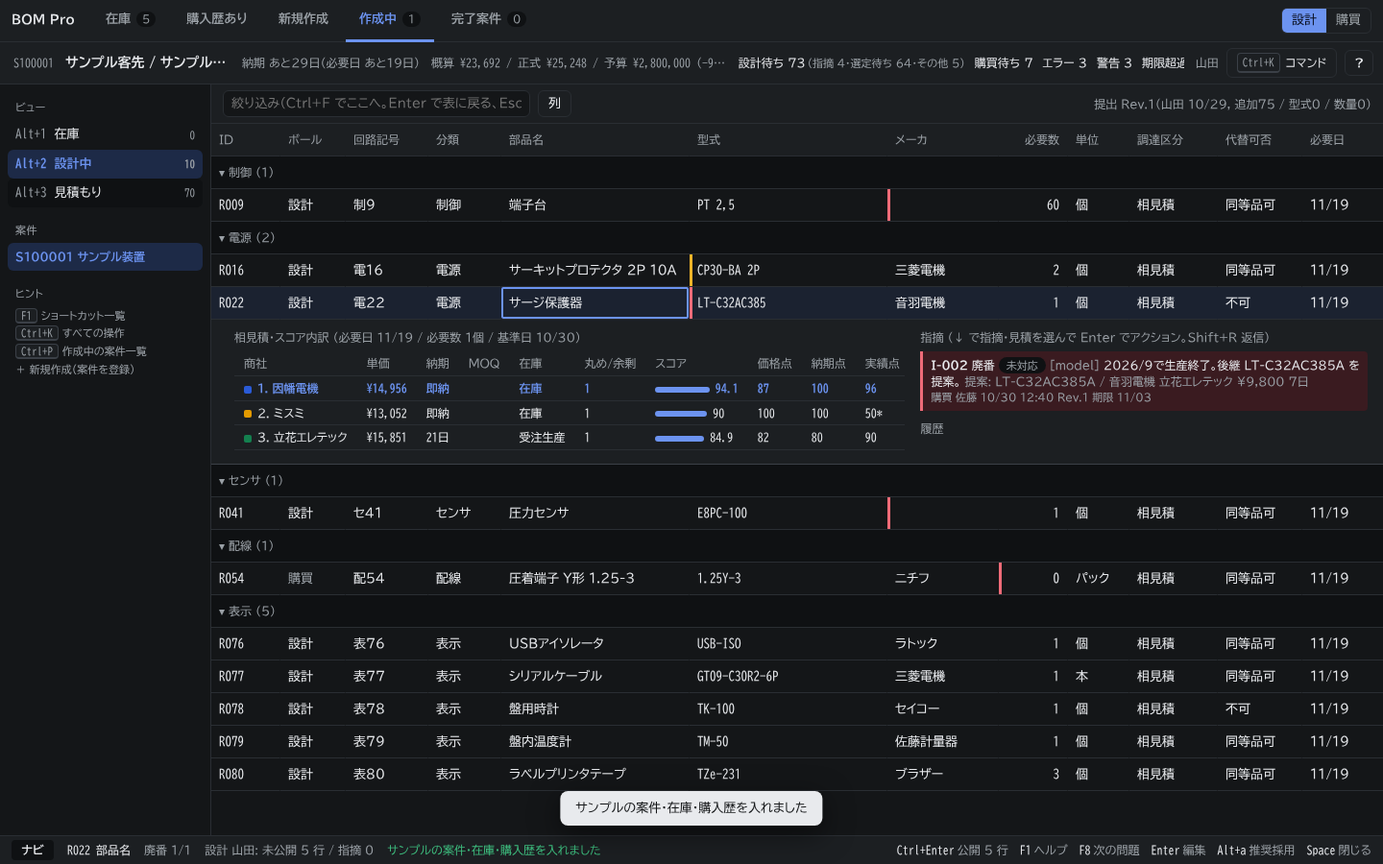
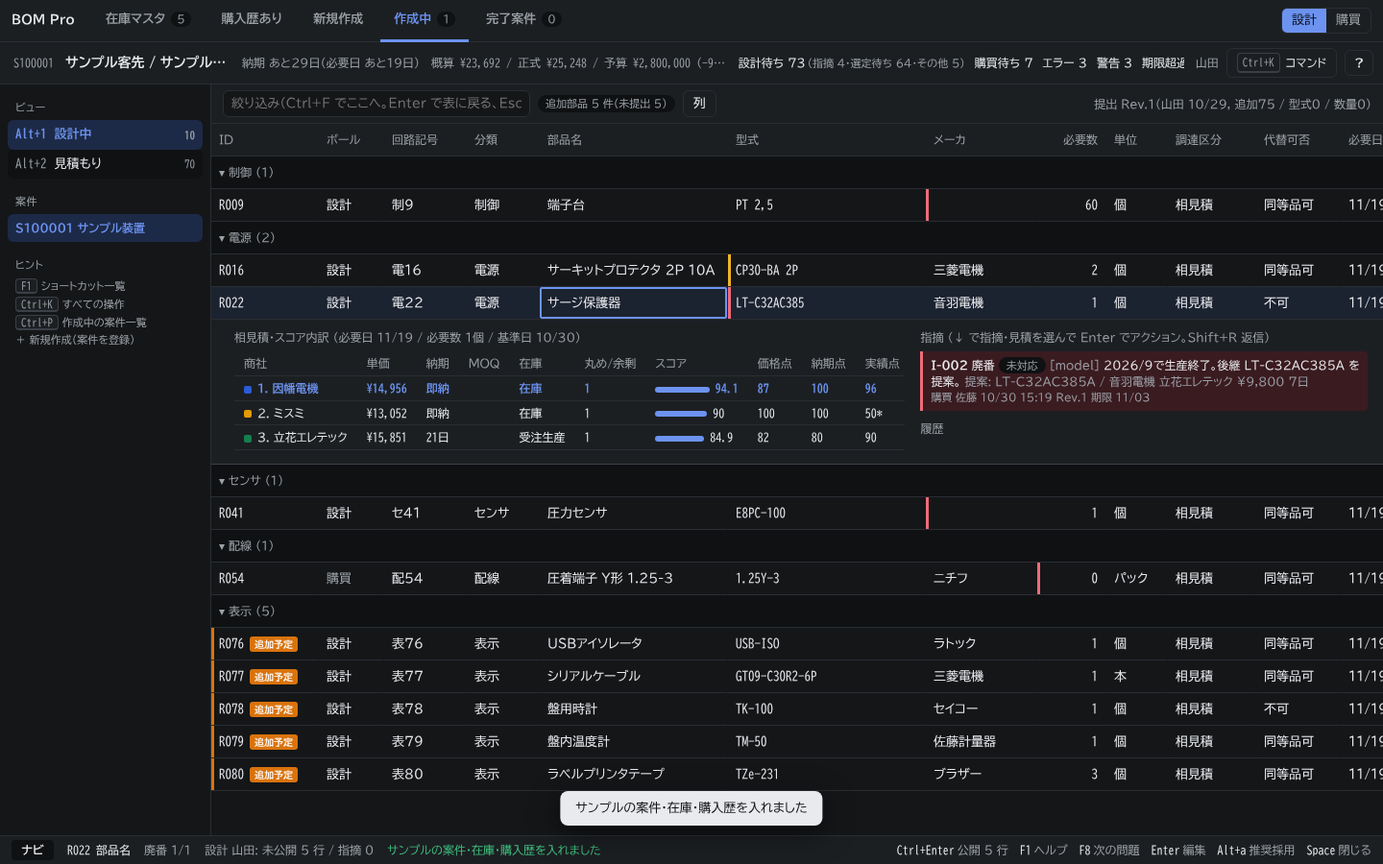
上のタブを在庫マスタに、在庫ビューを削除（ビューは設計中・見積もりの 2 つ）、見積もり・発注後の追加部品に札・色・件数を出す
Claude-Session: https://claude.ai/code/session_01VLU869jRMj6qD9nzBFt6MK

diff --git a/src/commands/registry.ts b/src/commands/registry.ts
@@ -25,7 +25,7 @@ const set = (p: Partial<State>) => useStore.setState(p)
 const toast = (t: string, k: 'ok' | 'err' | 'info' = 'ok') => st().toastMsg(t, k)
 export const vm = () => buildViewModel(st())
 
-export const ROLE_DEFAULT_VIEW: Record<Role, ViewId> = { design: 2, purchasing: 3 }
+export const ROLE_DEFAULT_VIEW: Record<Role, ViewId> = { design: 1, purchasing: 2 }
 
 /** 選択中の行（いま表示されている行だけ。絞り込みで隠れた行は対象にしない） */
 function cursorRow(): Row | undefined {
@@ -193,11 +193,11 @@ export function setView(v: ViewId) {
   // 編集中にビューを切り替えたら、先に今のセルへ確定する（別の行に書き込まない）
   if (!commitEdit('stay')) return
   set({ view: v, detailIndex: 0, revView: null })
-  // 3 見積もりは相見積先の列で入れる。相見積先が無ければ理由を知らせる
-  if (v === 3 && !st().project().supplierIds.length) toast('相見積先がまだありません（案件設定 Ctrl+K →「案件設定」→ 相見積先、または概算見積の依頼で商社を選ぶ）', 'info')
+  // 2 見積もりは相見積先の列で入れる。相見積先が無ければ理由を知らせる
+  if (v === 2 && !st().project().supplierIds.length) toast('相見積先がまだありません（案件設定 Ctrl+K →「案件設定」→ 相見積先、または概算見積の依頼で商社を選ぶ）', 'info')
   if (!vm().rows.some((r) => r.id === st().cursorRow)) set({ cursorRow: null })
   ensureCursor()
-  // 書けない列にいるなら、このビューで自分が書ける最初の列へ（購買が 3 見積もりを開くと単価）。ID・状態の列にいるときはそのまま
+  // 書けない列にいるなら、このビューで自分が書ける最初の列へ（購買が 2 見積もりを開くと単価）。ID・状態の列にいるときはそのまま
   const c = st().cursorCol
   if (c !== 'id' && c !== 'status' && rows.canEdit(c)) {
     // 単価を先に。無ければ書ける最初の列
@@ -341,9 +341,9 @@ export function commitEdit(dir: 'down' | 'up' | 'right' | 'left' | 'stay' = 'dow
     if (!tabAnchor || tabAnchor.row !== r.id) tabAnchor = { row: r.id, col: s.cursorCol }
     moveCol(dir === 'right' ? 1 : -1)
   } else tabAnchor = null
-  // 3 見積もり: 単価 → Tab → 納期 … と数字を続けて打てるよう、次の数値セルの入力を始める
+  // 2 見積もり: 単価 → Tab → 納期 … と数字を続けて打てるよう、次の数値セルの入力を始める
   const n = st()
-  if (dir !== 'stay' && n.view === 3 && colDef(n.cursorCol)?.numeric && !rows.canEdit(n.cursorCol) && cursorRow() && (n.cursorRow !== r.id || n.cursorCol !== s.cursorCol)) {
+  if (dir !== 'stay' && n.view === 2 && colDef(n.cursorCol)?.numeric && !rows.canEdit(n.cursorCol) && cursorRow() && (n.cursorRow !== r.id || n.cursorCol !== s.cursorCol)) {
     startEdit('')
     set({ editAuto: true })
   }
@@ -372,7 +372,7 @@ export function nextAckTarget(p: Project, row: Row, role: Role): string | null {
     const pr = prs.find((x) => x.severity === 'warn' && x.field === st().cursorCol) ?? prs.find((x) => x.severity === 'warn')
     if (pr) return row.ackRules.includes(pr.ruleId) ? '警告の確認済みを外す' : '警告を確認済み'
   }
-  if (st().view === 3 && role === 'purchasing' && p.submissions.some((sb) => sb.rowIds.includes(row.id) && !isAcked(sb, row.id, role))) return '差分を確認済'
+  if (st().view === 2 && role === 'purchasing' && p.submissions.some((sb) => sb.rowIds.includes(row.id) && !isAcked(sb, row.id, role))) return '差分を確認済'
   return null
 }
 function ackCurrent() {
@@ -746,9 +746,9 @@ function quoteActionPanel(r: Row, supplierId: string) {
   if (s.user().role === 'purchasing')
     options.push({
       key: 'i',
-      label: `3 見積もりビューで ${sup?.name} の見積を入力`,
+      label: `2 見積もりビューで ${sup?.name} の見積を入力`,
       run: () => {
-        setView(3)
+        setView(2)
         jumpToRow(r.id, `q.unitPrice@${supplierId}`)
       },
     })
@@ -1203,7 +1203,7 @@ export function runCommand(id: string, e?: KeyboardEvent): void {
       // 行を選んでいないときは足す位置が分からないので足さない（表の最後に足すなら Ctrl+↓ で最後の行へ）
       if (!r && s.project().rows.length) return toast('行を選んでから Shift+Enter（その下に足します。最後に足すときは Ctrl+↓ で最後の行へ）', 'info')
       if (s.filter || s.cellFilter) set({ filter: '', cellFilter: null })
-      if (s.view !== 2) setView(2)
+      if (s.view !== 1) setView(1)
       const nid = rows.insertBelow(r?.id ?? null)
       if (nid) {
         jumpToRow(nid, 'name')
@@ -1677,7 +1677,7 @@ export const STATIC: Array<{ id: string; label: string; section: string; desc?: 
   { id: 'filter.focus', label: '絞り込み検索', section: '表示', desc: 'Ctrl+F で入力欄へ', keywords: 'フィルタ filter 検索 探す さがす' },
   { id: 'columns.panel', label: '列の表示・非表示', section: '表示', keywords: '列 カラム 隠す 見えない' },
   { id: 'goto', label: '行へジャンプ（ID・回路記号・型式）', section: '表示', keywords: '移動 ジャンプ 探す 行へ' },
-  { id: 'row.toggleHidden', label: '行を隠す / 隠した行を戻す', section: '編集', desc: '隠した行は 2 設計中に薄く出ます', keywords: '非表示 隠した 隠す 戻す 表示' },
+  { id: 'row.toggleHidden', label: '行を隠す / 隠した行を戻す', section: '編集', desc: '隠した行は 1 設計中に薄く出ます', keywords: '非表示 隠した 隠す 戻す 表示' },
   { id: 'help', label: 'ショートカット一覧（ヘルプ）', section: '表示', keywords: 'ヘルプ help 使い方 キー 操作 わからない ? alt f8 英字 ショートカット' },
 ]
 

diff --git a/src/model/selectors.ts b/src/model/selectors.ts
@@ -4,7 +4,7 @@ import { COLUMNS, DEFAULT_HIDDEN_COLS, colDef, supplierOfCol } from './columns'
 import { VIEWS, buildProblems, causeOf, type ViewCtx } from './views'
 import type { Problem } from './rules'
 import type { State, ViewId } from './store'
-import { adoptedQuote, ball, effective, isActive, isOverdue, lineAmount, noUsableQuote, openIssues, orderQty, quoteResponses, rowDue, rowNeedDate, waitingDays, fmtYen } from './derive'
+import { addedLater, adoptedQuote, ball, effective, isActive, isOverdue, lineAmount, noUsableQuote, openIssues, orderQty, quoteResponses, rowDue, rowNeedDate, waitingDays, fmtYen } from './derive'
 import { fmtDate } from './dates'
 import { toHalf } from './parse'
 
@@ -49,7 +49,7 @@ export function viewColumns(st: State, p: Project): string[] {
   let cols: string[] = viewBaseColumns(st)
   // 相見積先に加えて、見積を頼んだ商社（指定系の行の指定先で、相見積先に無い商社）の列も出す
   const quoted = [...p.supplierIds, ...new Set(p.quotes.filter((q) => !q.stale && !p.supplierIds.includes(q.supplierId)).map((q) => q.supplierId))]
-  if (st.view === 3) {
+  if (st.view === 2) {
     for (const sid of quoted) cols.push(`q.unitPrice@${sid}`, `q.leadDays@${sid}`, `q.moq@${sid}`, `q.stock@${sid}`, `q.formalPrice@${sid}`)
     cols.push('extraCost', 'extraCostKind')
   }
@@ -60,7 +60,7 @@ function matchText(row: Row, p: Project, q: string, role: Role): boolean {
   if (!q) return true
   q = toHalf(q)
   const e = role === 'design' ? effective(row) : row
-  const hay = toHalf([row.id, e.ref, e.name, e.model, e.maker, e.category, e.note, STATUS_LABEL[row.status], ...openIssues(p, row.id).map((i) => i.kind + i.text)].join(' ')).toLowerCase()
+  const hay = toHalf([row.id, e.ref, e.name, e.model, e.maker, e.category, e.note, STATUS_LABEL[row.status], addedLater(p, row) ? '追加 追加部品' : '', ...openIssues(p, row.id).map((i) => i.kind + i.text)].join(' ')).toLowerCase()
   return q.toLowerCase().split(/\s+/).every((t) => hay.includes(t))
 }
 
@@ -83,7 +83,7 @@ function buildViewModelUncached(st: State): ViewModel {
   const columns = viewColumns(st, p)
   const counts = {} as Record<ViewId, number>
   // 隠した行は 設計中 にだけ出す
-  const showHidden = (id: number) => id === 2
+  const showHidden = (id: number) => id === 1
   for (const v of VIEWS) counts[v.id] = p.rows.filter((r) => v.filter(r, ctx) && (showHidden(v.id) || !r.hidden)).length
   const v = VIEWS.find((x) => x.id === st.view)!
   let rows = p.rows.filter((r) => v.filter(r, ctx) && (showHidden(st.view) || !r.hidden) && matchText(r, p, st.filter, ws.user.role))
@@ -132,6 +132,8 @@ export interface CellText {
   cls?: string
   sev?: 'err' | 'warn'
   title?: string
+  /** セルの横に付ける札（追加部品など） */
+  tag?: string
 }
 
 export function cellText(row: Row, col: string, ctx: ViewCtx): CellText {
@@ -154,8 +156,10 @@ export function cellText(row: Row, col: string, ctx: ViewCtx): CellText {
     return { text: v == null ? '' : String(v), raw: v ?? '', cls: d.numeric ? 'num' : '' }
   }
   switch (col) {
-    case 'id':
-      return { text: row.id, raw: row.id, cls: 'id' }
+    case 'id': {
+      const add = addedLater(p, row)
+      return { text: row.id, raw: row.id, cls: 'id', tag: add ? (add.state === 'draft' ? '追加予定' : '追加') : undefined, title: add ? (add.state === 'draft' ? '見積もり・発注のあとに足した部品（まだ提出していません。設計が公開すると購買に渡ります）' : `見積もり・発注のあとに足した部品（Rev.${add.rev} で追加）`) : undefined }
+    }
     case 'ball': {
       const b = ball(p, row)
       return { text: b ? ROLE_LABEL[b] : '—', raw: b ?? '', cls: b === ctx.role ? 'mine' : 'muted' }
@@ -208,6 +212,8 @@ export function cellText(row: Row, col: string, ctx: ViewCtx): CellText {
     case 'status': {
       const flags: string[] = []
       const f = row.flags
+      const add = addedLater(p, row)
+      if (add) flags.push(add.state === 'draft' ? '追加予定' : `追加 Rev.${add.rev}`)
       if (openIssues(p, row.id).length) flags.push('指摘')
       if (f.requote) flags.push('再見積要')
       if (f.reconfirm) flags.push('要再確認')

diff --git a/src/ui/Home.tsx b/src/ui/Home.tsx
@@ -18,8 +18,8 @@ export function goScreen(screen: Screen) {
 }
 
 /** 案件を開いて部品表の画面へ */
-/** 案件を開く。view は 1 在庫 / 2 設計中 / 3 見積もり（既定は設計中） */
-export function openProject(id: string, view: 1 | 2 | 3 = 2) {
+/** 案件を開く。view は 1 設計中 / 2 見積もり（既定は設計中） */
+export function openProject(id: string, view: 1 | 2 = 1) {
   st().commitWs('', (ws) => {
     ws.currentProjectId = id
   })
@@ -27,7 +27,7 @@ export function openProject(id: string, view: 1 | 2 | 3 = 2) {
 }
 
 const TABS: Array<{ id: Screen; label: string }> = [
-  { id: 'stock', label: '在庫' },
+  { id: 'stock', label: '在庫マスタ' },
   { id: 'history', label: '購入歴あり' },
   { id: 'new', label: '新規作成' },
   { id: 'active', label: '作成中' },
@@ -268,7 +268,7 @@ function StockScreen() {
   return (
     <section className="home-sec">
       <div className="home-head">
-        <h2>在庫</h2>
+        <h2>在庫マスタ</h2>
         <input className="home-search" placeholder="部品名・型式・メーカー・置き場所で絞り込み" value={q} onChange={(e) => setQ(e.target.value)} data-testid="stock-search" />
         <button className="btn primary" onClick={() => { setForm({ id: null, v: EMPTY_STOCK }); setErr(''); setImporting(false) }} data-testid="stock-add">
           ＋ 在庫を追加
@@ -504,7 +504,7 @@ function AddDialog({ target, onClose }: { target: PickTarget; onClose: () => voi
   const [qty, setQty] = useState('1')
   const [pid, setPid] = useState(active.some((p) => p.id === lastProject) ? lastProject : active.length === 1 ? active[0].id : '')
   const [err, setErr] = useState('')
-  const [added, setAdded] = useState<{ projectId: string; text: string; kind: 'stock' | 'history' } | null>(null)
+  const [added, setAdded] = useState<{ projectId: string; text: string } | null>(null)
   const title = target.kind === 'stock' ? [target.item.name, target.item.model].filter(Boolean).join('　') : [target.entry.name, target.entry.model].filter(Boolean).join('　')
   const maker = target.kind === 'stock' ? target.item.maker : target.entry.maker
   const unit = target.kind === 'stock' ? target.item.unit : target.entry.unit
@@ -517,7 +517,7 @@ function AddDialog({ target, onClose }: { target: PickTarget; onClose: () => voi
     if ('error' in r) return setErr(r.error)
     lastProject = pid
     setErr('')
-    setAdded({ projectId: pid, kind: target.kind, text: `${pid} に ${title} × ${qty}${unit} を追加しました` })
+    setAdded({ projectId: pid, text: `${pid} に ${title} × ${qty}${unit} を追加しました` })
   }
   return (
     <div className="overlay" onClick={onClose} data-testid="add-dialog">
@@ -529,7 +529,7 @@ function AddDialog({ target, onClose }: { target: PickTarget; onClose: () => voi
           <>
             <div className="ok-box" data-testid="add-done">{added.text}</div>
             <div className="row-actions">
-              <button className="btn primary" onClick={() => { onClose(); openProject(added.projectId, added.kind === 'stock' ? 1 : 2) }} data-testid="add-open-project">案件を開く</button>
+              <button className="btn primary" onClick={() => { onClose(); openProject(added.projectId) }} data-testid="add-open-project">案件を開く</button>
               <button className="btn" onClick={() => { setAdded(null); setQty('1') }} data-testid="add-more">続けて追加</button>
               <button className="btn" onClick={onClose} data-testid="add-close">閉じる</button>
             </div>

diff --git a/src/App.tsx b/src/App.tsx
@@ -7,6 +7,7 @@ import { Grid } from '@/ui/Grid'
 import { StatusBar } from '@/ui/StatusBar'
 import { Panels } from '@/ui/Panels'
 import { Home, TopNav } from '@/ui/Home'
+import { addedLater } from '@/model/derive'
 import { commitEdit, handleKeyDown, keepCursorVisible, runCommand } from '@/commands/registry'
 import { STORAGE_KEY, loadBackups, loadProblem, loadUser, parseWorkspace, resetWorkspace, saveBackup, startSync } from '@/io/persist'
 import { colDef } from '@/model/columns'
@@ -162,6 +163,16 @@ function Main() {
         <div className="toolbar">
           <input className="filter" placeholder="絞り込み（Ctrl+F でここへ。Enter で表に戻る、Esc で解除）" value={st.filter} onChange={(e) => st.set({ filter: e.target.value })} data-testid="filter" />
           {st.filter && <span className="muted" style={{ fontSize: 12 }}>{vm.rows.length} 行</span>}
+          {(() => {
+            const added = p.rows.filter((r) => addedLater(p, r))
+            if (!added.length) return null
+            const on = st.filter.trim() === '追加'
+            return (
+              <span className={'chip ' + (on ? 'warn' : 'muted')} style={{ cursor: 'pointer' }} onClick={() => st.set({ filter: on ? '' : '追加' })} title="見積もり・発注のあとに足した部品。クリックでそれだけを絞り込み（もう一度で解除）" data-testid="added-chip">
+                追加部品 {added.length} 件{added.some((r) => addedLater(p, r)?.state === 'draft') ? `（未提出 ${added.filter((r) => addedLater(p, r)?.state === 'draft').length}）` : ''}
+              </span>
+            )
+          })()}
           <button className="btn" tabIndex={-1} onMouseDown={(e) => e.preventDefault()} onClick={() => runCommand('columns.panel')} title="表示する列を選ぶ（隠したい列のチェックを外す）" data-testid="cols-button">
             列{Object.values(st.colPrefs).some(Boolean) ? `（${Object.values(st.colPrefs).filter(Boolean).length} 件隠す設定）` : ''}
           </button>
@@ -175,8 +186,8 @@ function Main() {
               並び替え {colDef(st.sort.col)?.label} {st.sort.dir === 'asc' ? '▲' : '▼'} ✕
             </span>
           )}
-          {st.view === 3 && <span className="chip warn">未発行の指摘 {p.issues.filter((i) => i.status === 'draft' && i.by.name === st.ws.user.name).length} 件</span>}
-          {st.view === 3 && p.rows.some((r) => r.flags.reissue) && <span className="chip warn">再発行対象 {p.rows.filter((r) => r.flags.reissue).length} 行</span>}
+          {st.view === 2 && <span className="chip warn">未発行の指摘 {p.issues.filter((i) => i.status === 'draft' && i.by.name === st.ws.user.name).length} 件</span>}
+          {st.view === 2 && p.rows.some((r) => r.flags.reissue) && <span className="chip warn">再発行対象 {p.rows.filter((r) => r.flags.reissue).length} 行</span>}
           {p.submissions.length > 0 && (
             <span className="muted" style={{ marginLeft: 'auto', fontSize: 12, whiteSpace: 'nowrap' }} data-testid="rev-info">
               提出 Rev.{p.submissions.at(-1)!.rev}（{p.submissions.at(-1)!.by.name} {fmtDate(p.submissions.at(-1)!.at.slice(0, 10))}

diff --git a/src/ui/Grid.tsx b/src/ui/Grid.tsx
@@ -1,6 +1,7 @@
 import { memo, useEffect, useLayoutEffect, useRef, useState, type RefObject } from 'react'
 import { useStore } from '@/model/store'
 import type { ViewModel } from '@/model/selectors'
+import { addedLater } from '@/model/derive'
 import { cellSev, cellText } from '@/model/selectors'
 import { colDef } from '@/model/columns'
 import { Detail } from './Detail'
@@ -227,9 +228,8 @@ function EmptyState({ vm, role }: { vm: ViewModel; role: string }) {
       </div>
     )
   const msg: Record<number, string> = {
-    1: '在庫から使う部品はありません（在庫の画面から案件に追加すると、ここに出ます）。',
-    2: role === 'design' ? '設計中の行はありません。Shift+Enter で行を追加できます。' : '設計中の行はありません（設計の提出を待っています）。',
-    3: '見積もりの行はまだありません。設計が公開（Ctrl+Enter）すると、ここに出ます。',
+    1: role === 'design' ? '設計中の行はありません。Shift+Enter で行を追加できます。' : '設計中の行はありません（設計の提出を待っています）。',
+    2: '見積もりの行はまだありません。設計が公開（Ctrl+Enter）すると、ここに出ます。',
   }
   void vm
   return (
@@ -237,7 +237,7 @@ function EmptyState({ vm, role }: { vm: ViewModel; role: string }) {
       {msg[st.view] ?? 'この条件に合う行はありません。'}
       <br />
       <span className="muted">
-        <kbd>1</kbd> 在庫 <kbd>2</kbd> 設計中 <kbd>3</kbd> 見積もり <kbd>F1</kbd> ショートカット一覧 <kbd>Ctrl+K</kbd> 操作を名前で探す
+        <kbd>1</kbd> 設計中 <kbd>2</kbd> 見積もり <kbd>F1</kbd> ショートカット一覧 <kbd>Ctrl+K</kbd> 操作を名前で探す
       </span>
     </div>
   )
@@ -259,7 +259,7 @@ interface RowProps {
 }
 
 const GridRow = memo(function GridRow({ row: r, cols, ctx, sel, cursorCol, editing, editValue, editError, candidates, cursorRef, inputRef, suppliers }: RowProps) {
-  const cls = ['row', sel ? 'sel' : '', r.hidden ? 'hidden-row' : '', r.status === 'cancelled' || r.status === 'replaced' || (ctx.role === 'design' && r.removal) ? 'rejected' : ''].filter(Boolean).join(' ')
+  const cls = ['row', sel ? 'sel' : '', r.hidden ? 'hidden-row' : '', r.status === 'cancelled' || r.status === 'replaced' || (ctx.role === 'design' && r.removal) ? 'rejected' : '', addedLater(ctx.p, r) ? 'added-row' : ''].filter(Boolean).join(' ')
   return (
     <tr className={cls} data-testid="row" data-row-id={r.id}>
       {cols.map((c) => {
@@ -327,6 +327,11 @@ const GridRow = memo(function GridRow({ row: r, cols, ctx, sel, cursorCol, editi
                     ))}
                   </div>
                 )}
+              </>
+            ) : c === 'id' && ct.tag ? (
+              <>
+                {ct.text}
+                <span className="tag-added" data-testid="tag-added">{ct.tag}</span>
               </>
             ) : c === 'status' ? (
               <span className={'status-pill ' + (ct.cls ?? '')}>{ct.text}</span>

diff --git a/src/model/views.ts b/src/model/views.ts
@@ -1,5 +1,5 @@
 import type { Project, Role, Row, Workspace } from './types'
-import { designatedDeclined, isActive, openIssues, resolverOfIssue, valuesFor } from './derive'
+import { designatedDeclined, isActive, openIssues, resolverOfIssue } from './derive'
 import { checkRow, type Problem } from './rules'
 import type { ViewId } from './store'
 
@@ -24,14 +24,9 @@ export interface ViewCtx {
 
 const DESIGN_COLS = ['id', 'ball', 'ref', 'category', 'name', 'model', 'maker', 'qtyNeeded', 'unit', 'procurement', 'altPolicy', 'needDate', 'note', 'status']
 
-/** 在庫から使う行（調達区分が社内在庫）。設計が直した値（作業中）もすぐ見る */
-function isStockRow(r: Row, c: ViewCtx): boolean {
-  return isActive(r) && valuesFor(r, c.role).procurement === '社内在庫'
-}
-
 /**
  * 設計中: 設計が見る・直す行（下書き・設計に指摘が来ている・エラーのある行・取消や置換の済んだ行・隠した行）。提出して見積に回った行は見積もりへ。
- * 在庫の行と見積もりの行は含まない。どの行も 在庫 / 設計中 / 見積もり のどれか 1 つに入る
+ * どの行も 設計中 / 見積もりのどちらか 1 つに入る
  */
 function isDesigning(r: Row, c: ViewCtx): boolean {
   if (!isActive(r)) return !(c.role === 'purchasing' && r.flags.formalWithdrawn)
@@ -43,25 +38,19 @@ function isDesigning(r: Row, c: ViewCtx): boolean {
 }
 
 export const VIEWS: ViewDef[] = [
+  { id: 1, label: '設計中', columns: DESIGN_COLS, filter: (r, c) => isDesigning(r, c) },
   {
-    id: 1,
-    label: '在庫',
-    columns: ['id', 'name', 'model', 'maker', 'qtyNeeded', 'unit', 'procurement', 'note', 'status'],
-    filter: (r, c) => isStockRow(r, c),
-  },
-  { id: 2, label: '設計中', columns: DESIGN_COLS, filter: (r, c) => !isStockRow(r, c) && isDesigning(r, c) },
-  {
-    id: 3,
+    id: 2,
     label: '見積もり',
     // 商社ごとの見積（単価・納期・MOQ・在庫・正式単価）の列は商社の数だけ後ろに付く
     columns: ['id', 'ball', 'ref', 'name', 'model', 'maker', 'qtyNeeded', 'unit', 'procurement', 'altPolicy', 'needDate', 'orderQty', 'adopted', 'score', 'unitPrice', 'amount', 'lead', 'status', 'due', 'waiting', 'ordered', 'received'],
-    filter: (r, c) => !isStockRow(r, c) && !isDesigning(r, c),
+    filter: (r, c) => !isDesigning(r, c),
   },
 ]
 
 /** この行が出るビュー（Ctrl+G や問題へのジャンプで、いまのビューに無い行を出すときに使う） */
 export function viewOfRow(r: Row, c: ViewCtx): ViewId {
-  return (VIEWS.find((v) => v.filter(r, c) && (!r.hidden || v.id === 2)) ?? VIEWS[1]).id
+  return (VIEWS.find((v) => v.filter(r, c) && (!r.hidden || v.id === 1)) ?? VIEWS[0]).id
 }
 
 /** その役割が差分を確認済か（確認は役割ごと。§5「自分が未確認の差分」。印の無い古い確認は全員の確認として扱う） */

diff --git a/src/model/store.ts b/src/model/store.ts
@@ -18,8 +18,8 @@ const EMPTY_PROJECT: Project = newProject('', '')
 /** 最初の画面の種類。project は案件を開いた部品表の画面 */
 export type Screen = 'stock' | 'history' | 'new' | 'active' | 'done' | 'project'
 
-/** 1 在庫 / 2 設計中 / 3 見積もり */
-export type ViewId = 1 | 2 | 3
+/** 1 設計中 / 2 見積もり */
+export type ViewId = 1 | 2
 
 export type PanelOption = { label: string; run: () => void; key?: string; hint?: string }
 
@@ -349,7 +349,7 @@ function readUi(): Partial<UiSaved> {
 }
 function loadUi(): Pick<State, 'view' | 'cursorRow' | 'cursorCol' | 'sort'> {
   const u = readUi()
-  return { view: (typeof u.view === 'number' && u.view >= 1 && u.view <= 3 ? u.view : 2) as ViewId, cursorRow: typeof u.cursorRow === 'string' ? u.cursorRow : null, cursorCol: typeof u.cursorCol === 'string' ? u.cursorCol : 'name', sort: u.sort && typeof u.sort.col === 'string' ? u.sort : null }
+  return { view: (typeof u.view === 'number' && u.view >= 1 && u.view <= 2 ? u.view : 1) as ViewId, cursorRow: typeof u.cursorRow === 'string' ? u.cursorRow : null, cursorCol: typeof u.cursorCol === 'string' ? u.cursorCol : 'name', sort: u.sort && typeof u.sort.col === 'string' ? u.sort : null }
 }
 function loadColPrefs(): Record<string, boolean> {
   try {

diff --git a/src/io/paste.ts b/src/io/paste.ts
@@ -942,7 +942,7 @@ export function parseBomPaste(text: string): PasteResult {
   for (const [f, n] of fellBack) warnings.unshift(`「${first[fallback.get(f)!.keep] ?? FIELD_LABEL[f]}」が空の ${n} 行は、ほかの「${FIELD_LABEL[f]}」の列の値を使いました`)
   if (altUsed) warnings.push(`新の号機が空の ${altUsed} 行は、旧の号機の数を足しました`)
   if (summed) warnings.push(`「2+1」「2(予備1)」のように書いた数量 ${summed} 個は、足した数にしました`)
-  if (badQty) warnings.push(`数量を読めない行が ${badQty} 行あります（0 にしてエラー表示します。2 設計中で直してください）`)
+  if (badQty) warnings.push(`数量を読めない行が ${badQty} 行あります（0 にしてエラー表示します。1 設計中で直してください）`)
   if (badUnit) warnings.push(`単位を読めない行が ${badUnit} 行あります（「個」にしました）`)
   const noResult = body.reduce((n, l) => n + split(l).filter((c) => c.trim() === '#数式の結果なし').length, 0)
   if (noResult) warnings.push(`数式の計算結果が入っていないセルが ${noResult} 個あります（Excel で開いて保存し直してから読むと値が入ります）`)

diff --git a/src/keys/keymap.ts b/src/keys/keymap.ts
@@ -44,9 +44,8 @@ export const KEYMAP: KeyBinding[] = [
   { id: 'move.pageUp', keys: ['PageUp'], mode: 'nav', section: '移動', label: '1画面ぶん上' },
   { id: 'move.pageDown', keys: ['PageDown'], mode: 'nav', section: '移動', label: '1画面ぶん下' },
   { id: 'row.toggleOpen', keys: [' '], mode: 'nav', section: '移動', label: '行を開く・閉じる（相見積の比較と履歴）', hint: 'Space 開く' },
-  { id: 'view.1', keys: ['1'], mode: 'nav', section: '移動', label: 'ビュー: 在庫' },
-  { id: 'view.2', keys: ['2'], mode: 'nav', section: '移動', label: 'ビュー: 設計中' },
-  { id: 'view.3', keys: ['3'], mode: 'nav', section: '移動', label: 'ビュー: 見積もり' },
+  { id: 'view.1', keys: ['1'], mode: 'nav', section: '移動', label: 'ビュー: 設計中' },
+  { id: 'view.2', keys: ['2'], mode: 'nav', section: '移動', label: 'ビュー: 見積もり' },
   { id: 'category.prev', keys: ['['], mode: 'nav', section: '移動', label: '前の分類へ' },
   { id: 'category.next', keys: [']'], mode: 'nav', section: '移動', label: '次の分類へ' },
 

diff --git a/src/model/derive.ts b/src/model/derive.ts
@@ -381,3 +381,16 @@ export function addWithdrawn(cur: string | undefined, add: string): string {
   const list = (typeof cur === 'string' ? cur : '').split(' / ').filter(Boolean)
   return list.includes(add) ? list.join(' / ') : [...list, add].join(' / ')
 }
+
+/**
+ * 見積もり・発注のあとに足した部品か。最初の提出（Rev）にあった行は null。
+ * sent: 提出済（Rev.N で追加）/ draft: 足したがまだ提出していない（設計が公開すると購買に渡る）
+ */
+export function addedLater(p: Project, row: Row): { state: 'sent' | 'draft'; rev: number | null } | null {
+  const subs = p.submissions.filter((s) => !s.revoked)
+  if (!subs.length) return null
+  if (row.status === 'draft' && row.publishedRev == null) return isActive(row) ? { state: 'draft', rev: null } : null
+  const first = subs.find((s) => s.rowIds.includes(row.id))
+  if (!first || first.rev <= subs[0].rev) return null
+  return { state: 'sent', rev: first.rev }
+}
